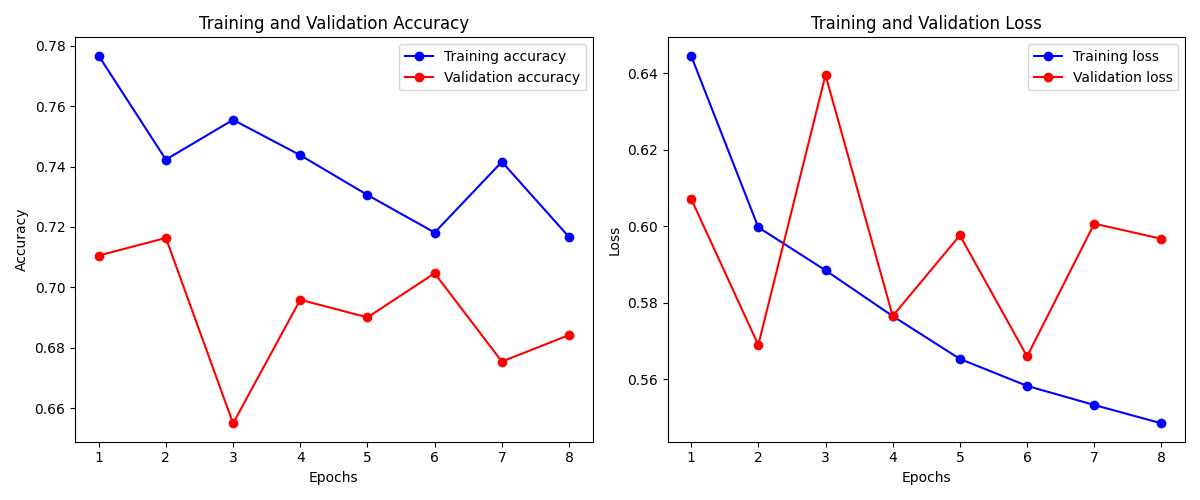
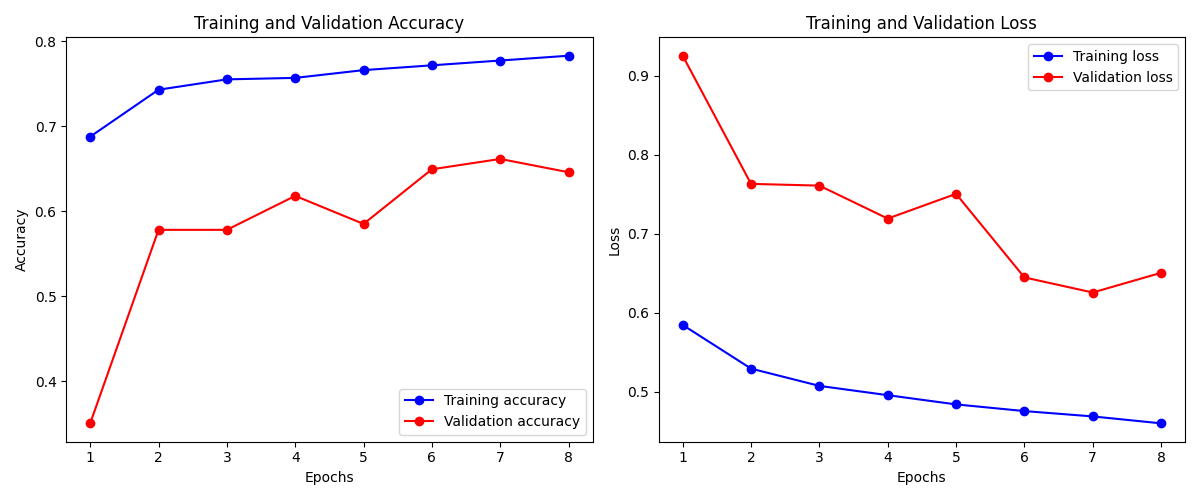
Applicato SMOTE

diff --git a/Neural Networks/neuralNetworks.py b/Neural Networks/neuralNetworks.py
@@ -10,6 +10,7 @@ import matplotlib.pyplot as plt
 from sklearn.metrics import confusion_matrix
 from sklearn import metrics
 from sklearn.utils import class_weight
+from imblearn.over_sampling import SMOTE
 
 
 # Carica il dataset da un file CSV
@@ -29,19 +30,24 @@ targetMapped = target.map(mapTarget)
 # Divide il dataset in set di addestramento e di test
 X_train, X_test, y_train, y_test = train_test_split(features, targetMapped, random_state=42)
 
+# Applica SMOTE
+smote = SMOTE(random_state=42)
+X_train_smote, y_train_smote = smote.fit_resample(X_train, y_train)
+
 # Inizializza lo StandardScaler per normalizzare le caratteristiche
 scaler = StandardScaler()
 # Applica la normalizzazione al set di addestramento e di test
-X_train_scaled = scaler.fit_transform(X_train.select_dtypes(include=[np.number]))
-X_test_scaled = scaler.transform(X_test.select_dtypes(include=[np.number]))
+X_train_scaled = scaler.fit_transform(X_train_smote)
+X_test_scaled = scaler.transform(X_test)
 
 class_weights = class_weight.compute_class_weight(
     'balanced',
     classes=np.unique(y_train),
-    y=y_train
+    y=y_train_smote
 )
 
 class_weights_dict = dict(enumerate(class_weights))
+
 
 # Definisce il modello di rete neurale sequenziale
 model = Sequential([
@@ -56,7 +62,7 @@ model.compile(optimizer='adam',
               metrics=['accuracy', Precision(), Recall()])
 
 # Addestra il modello sui dati normalizzati
-history = model.fit(X_train_scaled, y_train, epochs=8, validation_split=0.2, class_weight = class_weights_dict)
+history = model.fit(X_train_scaled, y_train_smote, epochs=8, validation_split=0.2, class_weight = class_weights_dict)
 
 # Prevede le probabilità di appartenenza alla classe per il set di test
 y_pred_probs = model.predict(X_test_scaled)

diff --git a/Decision Tree/decisionTree.py b/Decision Tree/decisionTree.py
@@ -8,6 +8,7 @@ from IPython.display import Image
 import numpy as np
 from sklearn import metrics
 import matplotlib.pyplot as plt
+from imblearn.over_sampling import SMOTE
 
 # Importa il dataset da un file CSV
 datasetPath = "dataset.csv"
@@ -25,9 +26,12 @@ targetMapped = target.map(mapTarget)
 # Divide il dataset in set di addestramento e test
 X_train, X_test, y_train, y_test = train_test_split(features, targetMapped, random_state=0)
 
+smote = SMOTE(random_state=0)
+X_train_smote, y_train_smote = smote.fit_resample(X_train, y_train)
+
 # Addestra il classificatore ad albero di decisione
 dtree = DecisionTreeClassifier(random_state=0, class_weight="balanced")
-dtree.fit(X_train, y_train)
+dtree.fit(X_train_smote, y_train_smote)
 
 # Effettua previsioni sul set di test
 predictions = dtree.predict(X_test)
@@ -52,6 +56,7 @@ f1 = metrics.f1_score(y_test, predictions)
 print(f"Accuracy: {accuracy:.2f}")
 print(f"Precision: {precision:.2f}")
 print(f"Recall: {recall:.2f}")
+print(f"F1 Score: {f1:.2f}")
 
 # Calcola la matrice di confusione
 cm = confusion_matrix(y_test, predictions)

diff --git a/Random Forest/randomForest.py b/Random Forest/randomForest.py
@@ -4,6 +4,7 @@ from sklearn.model_selection import train_test_split
 from sklearn.metrics import confusion_matrix
 import matplotlib.pyplot as plt
 from sklearn import metrics
+from imblearn.over_sampling import SMOTE
 
 # Carica il dataset da un file CSV
 df = pd.read_csv("dataset.csv")
@@ -20,9 +21,12 @@ targetMapped = target.map(mapTarget)
 # Divide il dataset in set di addestramento e test
 X_train, X_test, y_train, y_test = train_test_split(features, targetMapped, test_size=0.3, random_state=0, stratify=targetMapped)
 
+smote = SMOTE(random_state=0)
+X_train_smote, y_train_smote = smote.fit_resample(X_train, y_train)
+
 # Addestra il classificatore Random Forest
 rf = RandomForestClassifier(n_estimators=100, random_state=0, class_weight='balanced')
-rf.fit(X_train, y_train)
+rf.fit(X_train_smote, y_train_smote)
 
 # Effettua previsioni sul set di test
 predictions = rf.predict(X_test)
